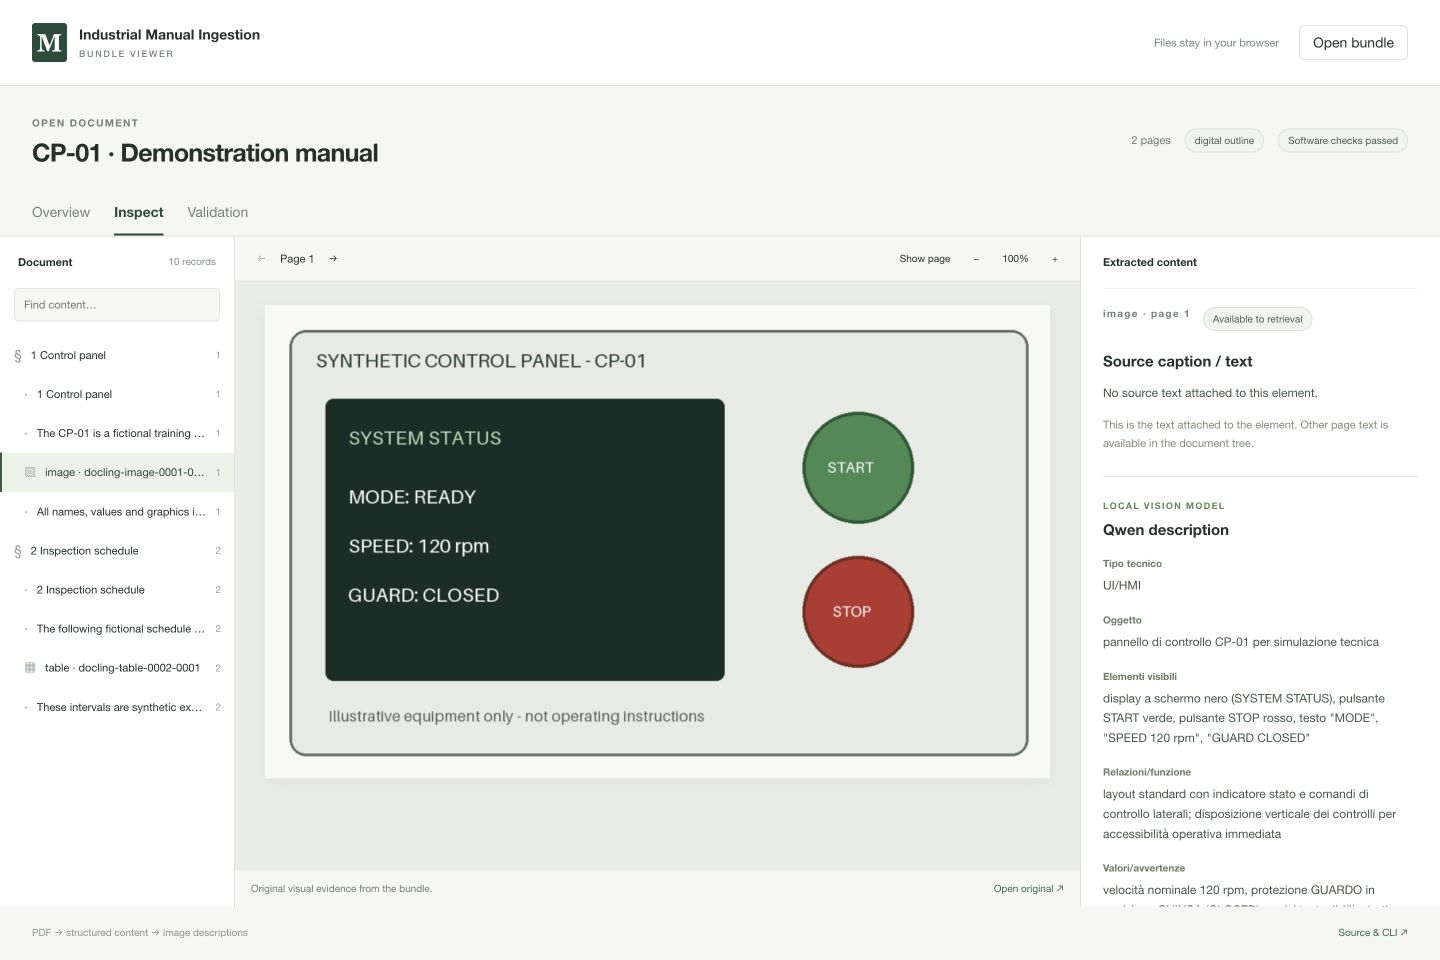
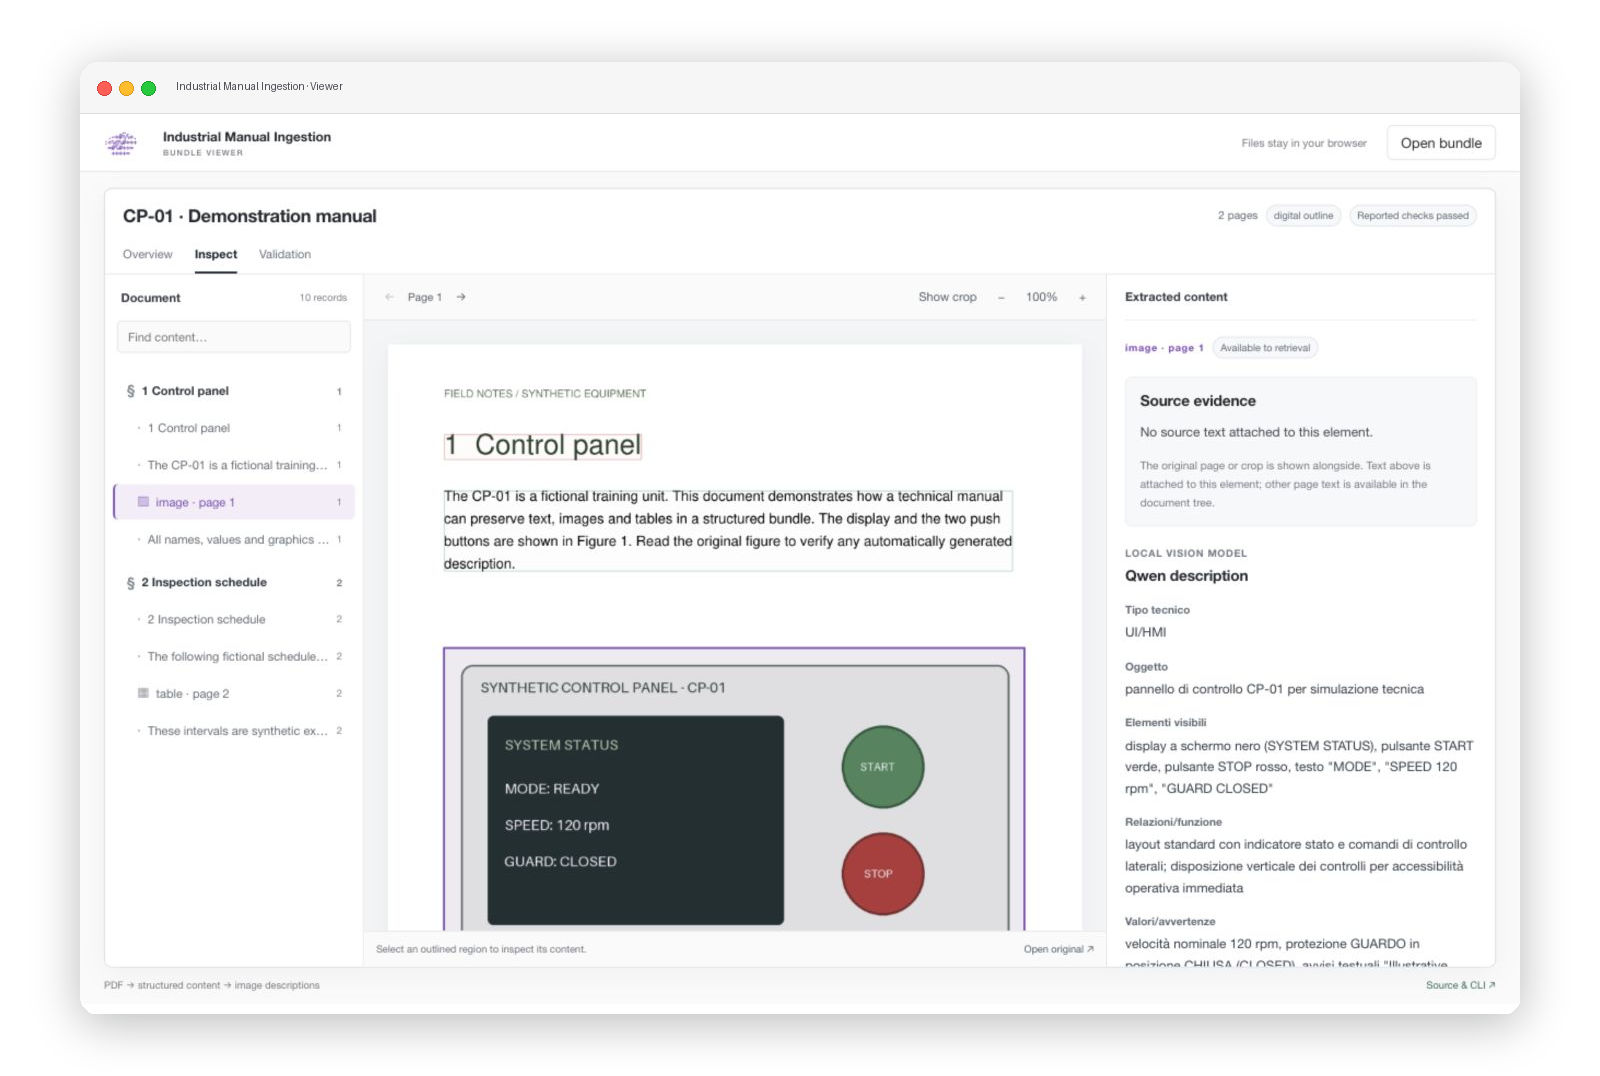
Polish CLI help and public presentation

diff --git a/viewer/src/styles.css b/viewer/src/styles.css
@@ -78,16 +78,13 @@ a:hover {
   margin-top: 5px;
   color: #7a857d;
 }
-.brand-mark {
-  background: #244c39;
-  color: #fff;
-  width: 35px;
-  height: 39px;
-  display: grid;
-  place-items: center;
-  font-family: Georgia, serif;
-  font-size: 25px;
-  border-radius: 3px;
+.brand-ascii {
+  width: 43px;
+  color: #7e4ab5;
+  font: 700 6px/0.78 ui-monospace, SFMono-Regular, Menlo, Monaco, Consolas, monospace;
+  white-space: pre;
+  letter-spacing: -0.45px;
+  user-select: none;
 }
 .header-actions {
   display: flex;
@@ -554,9 +551,9 @@ footer {
   .brand {
     font-size: 12px;
   }
-  .brand-mark {
-    width: 28px;
-    height: 32px;
+  .brand-ascii {
+    width: 32px;
+    font-size: 4.4px;
   }
   .header-actions button {
     font-size: 11px;
@@ -677,7 +674,7 @@ footer {
 .app:has(.product-view) { color: #25292e; background: #fafafa; }
 .app:has(.product-view) .app-header { height: 58px; padding: 0 24px; border-color: #e2e4e7; }
 .app:has(.product-view) .brand { color: #25292e; font-size: 13px; gap: 9px; }
-.app:has(.product-view) .brand-mark { width: 27px; height: 29px; font-size: 21px; background: #30383a; }
+.app:has(.product-view) .brand-ascii { width: 50px; font-size: 6.8px; line-height: .78; }
 .app:has(.product-view) .brand small { font-size: 8px; letter-spacing: 1.2px; margin-top: 3px; color: #73787e; }
 .app:has(.product-view) .local-note { color: #73787e; }
 .app:has(.product-view) footer { padding: 12px 24px; color: #73787e; }
@@ -740,6 +737,7 @@ footer {
 @media (max-width: 650px) {
   .app:has(.product-view) .app-header { padding: 0 14px; height: 58px; }
   .app:has(.product-view) .brand { font-size: 11px; }
+  .app:has(.product-view) .brand-ascii { width: 40px; font-size: 5.4px; }
   .inspect-view { margin: 8px 8px 0; border-radius: 8px; }
   .inspect-view .document-bar { display: block; padding: 14px 14px 8px; }
   .inspect-view h1 { font-size: 17px; }

diff --git a/viewer/src/App.tsx b/viewer/src/App.tsx
@@ -623,7 +623,11 @@ export function App() {
           className="brand"
           href="https://github.com/CometaSensitiva/industrial-manual-ingestion"
         >
-          <span className="brand-mark">M</span>
+          <span className="brand-ascii" aria-hidden="true">{`    .-.
+ .-*#%%*.
+:+%@%#**+
+ =#%#*+=
+  +**+=`}</span>
           <span>
             Industrial Manual Ingestion<small>BUNDLE VIEWER</small>
           </span>

diff --git a/src/manual_ingestion/cli_display.py b/src/manual_ingestion/cli_display.py
@@ -1,23 +1,95 @@
 """Human-readable CLI presentation; bundle contracts remain unchanged."""
 from __future__ import annotations
+
+import argparse
 import json
 import os
 import sys
 from contextlib import contextmanager, redirect_stdout
 from pathlib import Path
+
 from rich.console import Console
+from rich.padding import Padding
 from rich.table import Table
+from rich.text import Text
+
+from . import __version__
+
+ACCENT = "#b4a0e5"
+BLUE = "#97bafa"
+LOGO = '         ..\n       :-.\n      -+.   .::..:-:.   .\n     :+. .-*#*####%%#+=-:.\n    .*-.=*##%%#%%#****#+:.\n    -%+*###%@%%##*#*++*#+=--.\n    +#*+*%@%##%%##*++***++==-:\n   .=**+*+*%###*+++*+++**====-.\n..=*#**++=+#%%#*+++++++*++=-..\n++#*#%*=***+**##******+++==:\n**=*%#*=*****+**+=+++++==+=.\n-= =#**+**+***+++===++++++:\n.: .++=+**#*+*++#++++++==-..\n..  .=-:-++*+++*#+---:::.....\n     .. .:+*****+=:::::::..\n         -****#*++=::::....\n       .+#+:=***--+=::.......\n       +*=::::-:-+=::..:.:::...'
+
+
+class PresentationParser(argparse.ArgumentParser):
+    """Style root help without changing argparse's parsing or error behavior."""
+
+    def print_help(self, file=None):
+        if self.prog != "manual-ingestion":
+            return super().print_help(file)
+        console = Console(file=file or sys.stdout, highlight=False, markup=False)
+        copy = Text()
+        copy.append("INDUSTRIAL\nMANUAL INGESTION\n", style="bold")
+        copy.append(f"v{__version__}\n\n", style="dim")
+        copy.append("PDFs into structured, traceable content.\n\n")
+        for name, description in (
+            ("detect", "Inspect a PDF"),
+            ("ingest", "Create a bundle"),
+            ("validate", "Check a bundle"),
+            ("schema", "Print a JSON Schema"),
+        ):
+            copy.append(f"{name:10}", style=f"bold {ACCENT}")
+            copy.append(description + "\n")
+        copy.append("\nStart with the examples below.\n", style="dim")
+        copy.append("Every command starts with manual-ingestion.", style="dim")
+        console.print()
+        if console.is_terminal and console.width >= 90:
+            table = Table.grid(padding=(0, 4))
+            table.add_column(width=33)
+            table.add_column()
+            table.add_row(Text(LOGO, style=ACCENT), copy)
+            console.print(Padding(table, (0, 2)))
+        else:
+            console.print(Padding(copy, (0, 2)))
+        console.print()
+        console.print("  Try the included example", style="bold")
+        console.print("  Run these from the industrial-manual-ingestion project folder.", style="dim")
+        console.print("  Inspect the sample PDF:", style="dim")
+        console.print("  manual-ingestion detect examples/synthetic-manual.pdf", style=BLUE)
+        console.print("  Check the existing sample bundle:", style="dim")
+        console.print("  manual-ingestion validate examples/synthetic-bundle", style=BLUE)
+        console.print()
+        console.print("  Use your own PDF", style="bold")
+        console.print("  Type manual-ingestion detect followed by a space, then drag your PDF", style="dim")
+        console.print("  into the terminal to insert its path. Press Enter.", style="dim")
+        console.print()
+        console.print("  Learn how to create a bundle:", style="dim")
+        console.print("  manual-ingestion ingest --help", style=BLUE)
+        console.print("  Options for inspecting a PDF:", style="dim")
+        console.print("  manual-ingestion detect --help", style=BLUE)
+        console.print()
+        console.print("  Add --json or --verbose to detect, ingest or validate commands.", style="dim")
+        console.print("  Show this help: manual-ingestion --help", style="dim")
+        console.print()
+
+
+def _note(message, style="dim"):
+    note = Padding(Text(message, style=style), (0, 2))
+    Console(highlight=False, markup=False).print(note)
 
 
 def _summary(title, rows):
-    console = Console(highlight=False)
-    console.print(title, style="bold")
+    console = Console(highlight=False, markup=False)
+    console.print()
+    console.print(Text("  " + title, style=f"bold {ACCENT}"))
     table = Table.grid(padding=(0, 2))
     table.add_column(style="dim")
     table.add_column(overflow="fold")
     for name, value in rows:
-        table.add_row(str(name), str(value))
-    console.print(table)
+        style = BLUE if name in {"Bundle", "Output"} else ""
+        if name == "Result":
+            style = "green" if str(value) == "passed" else "red"
+        table.add_row(Text(str(name)), Text(str(value), style=style))
+    console.print(Padding(table, (1, 2)))
 
 
 def show_detection(detected, *, verbose=False):
@@ -27,8 +99,8 @@ def show_detection(detected, *, verbose=False):
         ("Text layer", "usable" if detected.text_layer else "OCR required"),
         ("Sampled pages", ", ".join(map(str, detected.sampled_pages))),
     ])
-    for reason in (detected.reasons if verbose else detected.reasons[-1:]):
-        print(f"  {reason}")
+    for reason in (detected.reasons if verbose else []):
+        _note(reason)
     if verbose:
         print(json.dumps(detected.model_dump(mode="json"), indent=2))
         print("Profile confidence is a routing heuristic, not a measured probability.")
@@ -43,7 +115,7 @@ def show_validation(report, run_dir, *, verbose=False):
     ])
     for check in report.checks if verbose else failed:
         print(f"  {'OK' if check.passed else 'FAIL'}  {check.id}: {check.message}")
-    print("Software checks do not certify the accuracy of generated descriptions.")
+    _note("Software checks do not certify the accuracy of generated descriptions.")
 
 
 def show_outcome(outcome, *, verbose=False):
@@ -65,10 +137,10 @@ def show_outcome(outcome, *, verbose=False):
         ("Output", outcome.output_dir),
     ])
     for warning in manifest.warnings if verbose else manifest.warnings[:3]:
-        print(f"  Warning: {warning}")
+        _note(f"Warning: {warning}", "yellow")
     if not verbose and len(manifest.warnings) > 3:
         print("  More warnings in run.json; use --verbose to display all.")
-    print("Included in bundle does not mean semantically verified.")
+    _note("Included in bundle does not mean semantically verified.")
 
 
 @contextmanager

diff --git a/tests/test_progress.py b/tests/test_progress.py
@@ -130,12 +130,11 @@ def test_renderer_uses_indeterminate_display_without_inventing_a_counter() -> No
                 detail="Docling",
             )
         )
+        task = renderer._progress.tasks[0]
+        assert task.fields["label"] == "✓ Extracting — Docling"
+        assert task.fields["counter"] == ""
 
-    output = stream.getvalue()
-    assert "Extracting" in output
-    assert "Docling" in output
-    assert "?/" not in output
-    assert "%" not in output
+    assert stream.getvalue() == "\n"
 
 
 def test_renderer_switches_to_a_determinate_real_counter_and_marks_completion() -> None:
@@ -173,11 +172,12 @@ def test_renderer_switches_to_a_determinate_real_counter_and_marks_completion() 
                 unit="pagine",
             )
         )
+        task = renderer._progress.tasks[0]
+        assert task.fields["counter"] == "34/34 pagine"
+        assert task.fields["label"] == "✓ Extracting"
     renderer.close()
 
-    output = stream.getvalue()
-    assert "34/34 pagine" in output
-    assert "✓ Extracting" in output
+    assert stream.getvalue() == "\n"
     assert not renderer.active
 
 
@@ -195,9 +195,11 @@ def test_renderer_marks_failed_stage_and_never_uses_standard_output(capsys) -> N
                 detail="provider non disponibile",
             )
         )
+        task = renderer._progress.tasks[0]
+        assert task.fields["label"] == "✗ Describing images — provider non disponibile"
+        assert task.fields["counter"] == "2/4 elementi"
 
     captured = capsys.readouterr()
     assert captured.out == ""
     assert captured.err == ""
-    assert "✗ Describing images" in stream.getvalue()
-    assert "2/4 elementi" in stream.getvalue()
+    assert stream.getvalue() == "\n"

diff --git a/tests/test_cli.py b/tests/test_cli.py
@@ -519,6 +519,16 @@ def test_detect_default_is_readable_and_does_not_present_a_probability(monkeypat
     assert "profile_confidence" not in output
 
 
+def test_root_help_uses_complete_copyable_examples(capsys):
+    cli.build_parser().print_help()
+    output = capsys.readouterr().out
+    assert "manual-ingestion detect examples/synthetic-manual.pdf" in output
+    assert "manual-ingestion validate examples/synthetic-bundle" in output
+    assert "manual-ingestion ingest --help" in output
+    assert "<command>" not in output
+    assert "manual-ingestion detect manual.pdf" not in output
+
+
 def test_validation_default_shows_failed_checks(monkeypatch, capsys):
     monkeypatch.setattr(cli, "validate_run_bundle", lambda _: _validation(passed=False))
     assert cli.main(["validate", "bundle"]) == 1

diff --git a/src/manual_ingestion/cli_progress.py b/src/manual_ingestion/cli_progress.py
@@ -54,15 +54,16 @@ class RichProgressRenderer:
 
         console = Console(file=self._stream, force_terminal=self.enabled)
         self._progress = Progress(
-            SpinnerColumn(finished_text=" "),
+            SpinnerColumn(finished_text=" ", style="#b4a0e5"),
             TextColumn("{task.fields[label]}", markup=False),
-            BarColumn(bar_width=24),
+            BarColumn(bar_width=20, complete_style="#b4a0e5", finished_style="green", pulse_style="#97bafa"),
             TextColumn("{task.fields[counter]}", markup=False),
             TimeElapsedColumn(),
             console=console,
             auto_refresh=True,
             refresh_per_second=refresh_per_second,
             expand=False,
+            transient=True,
         )
 
     @property

diff --git a/src/manual_ingestion/cli.py b/src/manual_ingestion/cli.py
@@ -7,7 +7,7 @@ import json
 import re
 import sys
 import traceback
-from .cli_display import operational_output, show_detection, show_validation, show_outcome
+from .cli_display import PresentationParser, operational_output, show_detection, show_validation, show_outcome
 from collections.abc import Sequence
 from dataclasses import dataclass
 from datetime import UTC, datetime
@@ -69,7 +69,7 @@ def parse_pages(value: str) -> list[int]:
 
 
 def build_parser() -> argparse.ArgumentParser:
-    parser = argparse.ArgumentParser(
+    parser = PresentationParser(
         prog="manual-ingestion",
         description="Automatically ingest and validate an industrial manual PDF.",
     )

diff --git a/README.md b/README.md
@@ -10,12 +10,33 @@ One Python CLI processes the document. A read-only browser viewer connects each 
 
 ## Quick start
 
-Requires **Python 3.12**. Install the CLI and digital PDF parser:
+Requires **Python 3.12**. From a terminal, move into the folder where you cloned or downloaded the project. If you followed the suggested folder name, the command is:
+
+```sh
+cd /path/to/industrial-manual-ingestion
+```
+
+Replace `/path/to` with the actual parent folder. On macOS, you can type `cd ` and drag the `industrial-manual-ingestion` folder into the terminal to insert its exact path.
+
+For the first setup, create the environment and install the CLI with the digital PDF parser:
 
 ```sh
 python3.12 -m venv .venv
 source .venv/bin/activate
 pip install '.[docling]'
+```
+
+On later sessions, enter the project directory, activate the existing environment and open the guided help:
+
+```sh
+cd /path/to/industrial-manual-ingestion
+source .venv/bin/activate
+manual-ingestion --help
+```
+
+The help includes complete commands that can be copied directly. To try the included public example:
+
+```sh
 manual-ingestion detect examples/synthetic-manual.pdf
 manual-ingestion validate examples/synthetic-bundle
 ```
@@ -42,7 +63,7 @@ manual-ingestion schema manual
 
 The interface and help are in English. `--language` records the document language; the preserved technical-caption prompt currently requests Italian fields, so Qwen descriptions may be in Italian.
 
-Normal output is a concise human summary. `--json` gives machine-readable stdout; progress and library logs go to stderr. `--verbose` enables additional details. `--help` lists options for each command.
+Normal output is a concise human summary with a compact branded help screen. `--json` gives undecorated machine-readable stdout; progress and library logs go to stderr. `--verbose` enables additional details. Run `manual-ingestion --help` for guided examples and `manual-ingestion <command> --help` for command-specific options.
 
 `--pages 1-3,5` processes a diagnostic subset. `--no-enrich` skips image descriptions. Both produce an experimental bundle. The destination must not already exist. `--write-failure-report` saves a report beside the destination on failure.
 
@@ -53,7 +74,7 @@ Scanned PDFs use an isolated PaddleOCR-VL runtime, configured with `--paddle-pyt
 The public viewer opens a synthetic example automatically. Use **Open bundle** to choose a local folder or enter an HTTP(S) URL. Local folders are read in the browser and are not uploaded. A remote server must allow cross-origin reads.
 
 - **Overview:** document route, content counts and warnings.
-- **Inspect:** document tree, source page, bounding boxes and extracted content.
+- **Inspect:** document tree, source page, always-visible bounding boxes and extracted content. Images, tables, text and titles use the restrained accent palette inherited from the original research viewer.
 - **Validation:** published software checks, provenance and JSON.
 
 The source-text panel shows fields attached to the selected element, not a reconstruction of an external retrieval system. Missing page rasters are optional; the crop and extracted content can still be inspected.

diff --git a/docs/bundle-format.md b/docs/bundle-format.md
@@ -17,7 +17,7 @@ Print the authoritative schemas with `manual-ingestion schema manual` and `manua
 
 An element carries its source page and, when available, bounding box and page size. Images reference a crop, original caption, generated caption and generation provenance. Tables retain Markdown and header-value serialized rows. `trace.include_in_rag` records retrieval eligibility; it is distinct from presence in the JSON bundle.
 
-The viewer reads source `text` and `caption_original` independently of `caption_generated`. It never treats the existence of an image file as textual baseline information. Other text on the page remains separate records.
+The viewer reads source `text` and `caption_original` independently of `caption_generated`. It never treats the existence of an image file as textual baseline information. Other text on the page remains separate records. In Inspect, every available bounding box remains lightly visible; selecting a record increases its emphasis without changing the underlying bundle.
 
 Page previews use `assets/pages/page_0001.png` (one-based, four digits). These are optional display artifacts. In the public example they are rendered from the synthetic source after ingestion and do not change experimental results.
 
